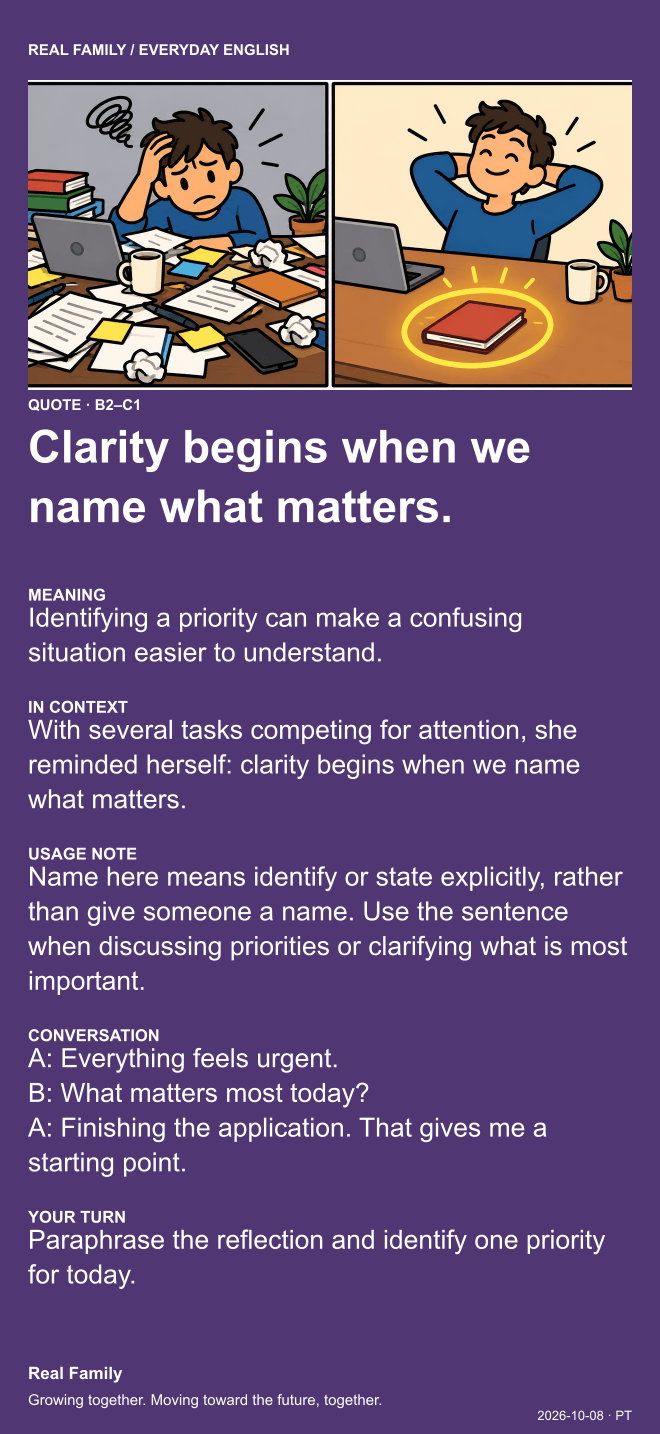
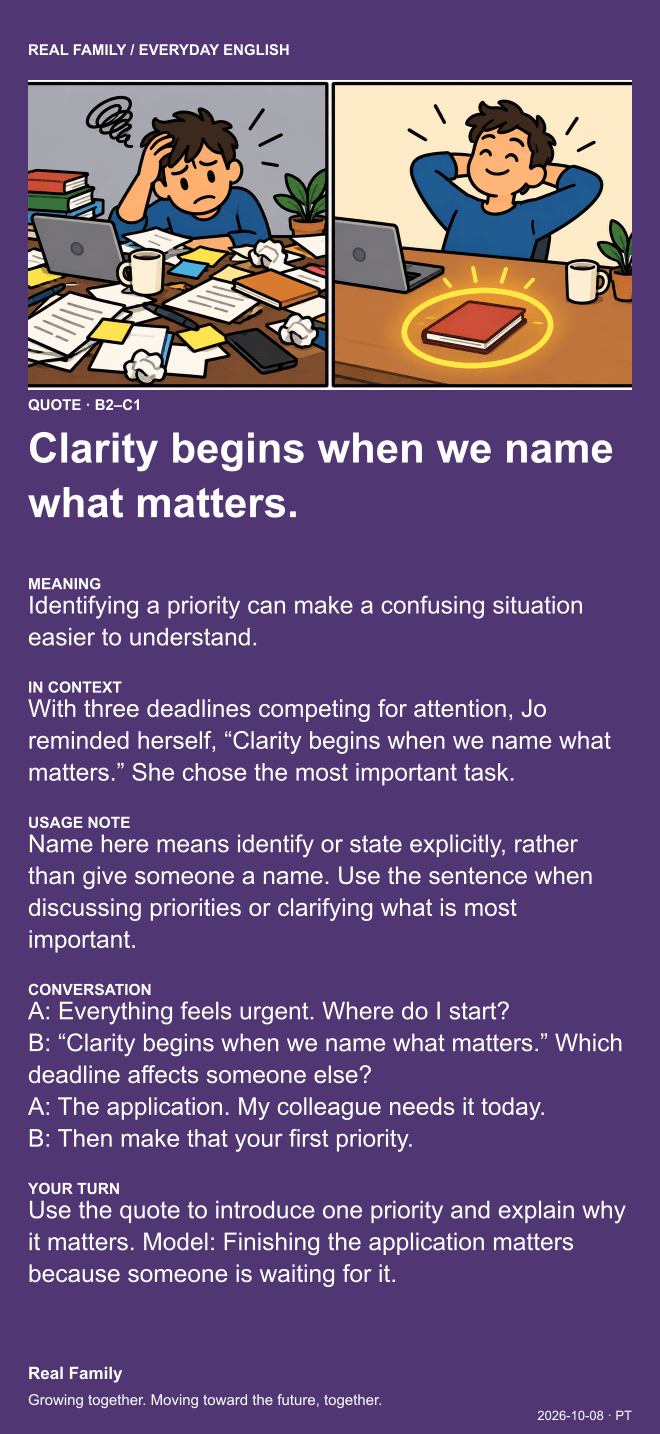
Revise historical Quote examples conversations and practice

diff --git a/realfamily/scripts/generate_english.py b/realfamily/scripts/generate_english.py
@@ -70,7 +70,7 @@ CRITICAL SCHEMA: image is ONLY a category STRING: "vocabulary", "phrasal", "idio
 The two phrasal lessons MUST teach verb + particle constructions (for example a verb followed by up/out/off), not a single verb or noun. The grammar lesson MUST teach an advanced grammatical contrast with a correct rule, not vocabulary. Match each title to its declared category. C2 lessons require real pragmatic or semantic distinctions in notes and exercises. Do not reuse a familiar saying as an original quote.
 Counts: vocabulary 2, phrasal 2, idiom 2, life 1, grammar 1, quote 1, small-talk 1. Levels B2 4, C1 4, C2 2.
 Teach native-like collocations and pragmatic nuance. C2 must teach register, implied meaning or precise semantic contrasts, not relabel basic material.
-Quote must be ORIGINAL, no author attribution. Quote usage notes must explain metaphor, register, context or pragmatic meaning only; never mention Real Family, our brand, authorship, or promotional claims. Each lesson 110-170 words total, maximum 190; title under 55 characters. All have a clear definition, natural example, specific usage warning, 4 alternating A:/B: dialogue lines, and a concrete exercise with a short model answer. Small-talk has SIX alternating A:/B: lines, with follow-up questions and natural replies. Use actual newline characters in conversation.
+Quote must be ORIGINAL, no author attribution. Quote example must naturally quote the exact title in a concrete situation. Its four-turn conversation must quote that same title once and show a specific response or action that applies its meaning. Exercises must practice applying that quote, with a concrete model answer. Quote usage notes must explain metaphor, register, context or pragmatic meaning only; never mention Real Family, our brand, authorship, or promotional claims. Each lesson 110-170 words total, maximum 190; title under 55 characters. All have a clear definition, natural example, specific usage warning, 4 alternating A:/B: dialogue lines, and a concrete exercise with a short model answer. Small-talk has SIX alternating A:/B: lines, with follow-up questions and natural replies. Use actual newline characters in conversation.
 Avoid repeated titles, synonyms with the same teaching point, paraphrases of past meanings, and repeated grammar rules. Use the complete past curriculum below as excluded teaching points.
 scene describes a simple flat 2D comic that clearly demonstrates THIS meaning, NOT its category. No generic category pictures. Return background (#hex), description (what visual event explains the lesson), characters (1-3), props (0-5).
 characters: x (140..500), y (65..105), scale (0.85,1,1.15), shirt (#hex), flip (boolean), face (happy,skeptical,worried,calm,neutral,curious,determined), pose (up,reach,cross,think,point,down).

diff --git a/realfamily/scripts/release_english.py b/realfamily/scripts/release_english.py
@@ -10,7 +10,10 @@ def validate(root,edition):
  assert len({l['id'] for l in lessons})==10
  seen=set();pictures=set()
  for l in lessons:
-  if l['image']=='quote':assert 'real family' not in l.get('notes','').casefold(),'Quote usage notes must focus on language, without branding'
+  if l['image']=='quote':
+   assert 'real family' not in l.get('notes','').casefold(),'Quote usage notes must focus on language, without branding'
+   assert l['title'] in l.get('example','') and l['title'] in l.get('conversation',''),'Quote examples and conversation must demonstrate the exact quote'
+   assert len(l.get('conversation','').replace('\\n','\n').splitlines())>=4,'Quote needs a connected four-turn conversation'
   if l['image']=='small-talk':
    turns=l['conversation'].replace('\\n','\n').splitlines();assert len(turns)>=6 and all(t.startswith(('A:','B:')[i%2]) for i,t in enumerate(turns)),'Small talk needs at least six alternating turns'
   if 'level' in l:assert l['level'] in {'B2','C1','C2'},'Invalid CEFR level'
